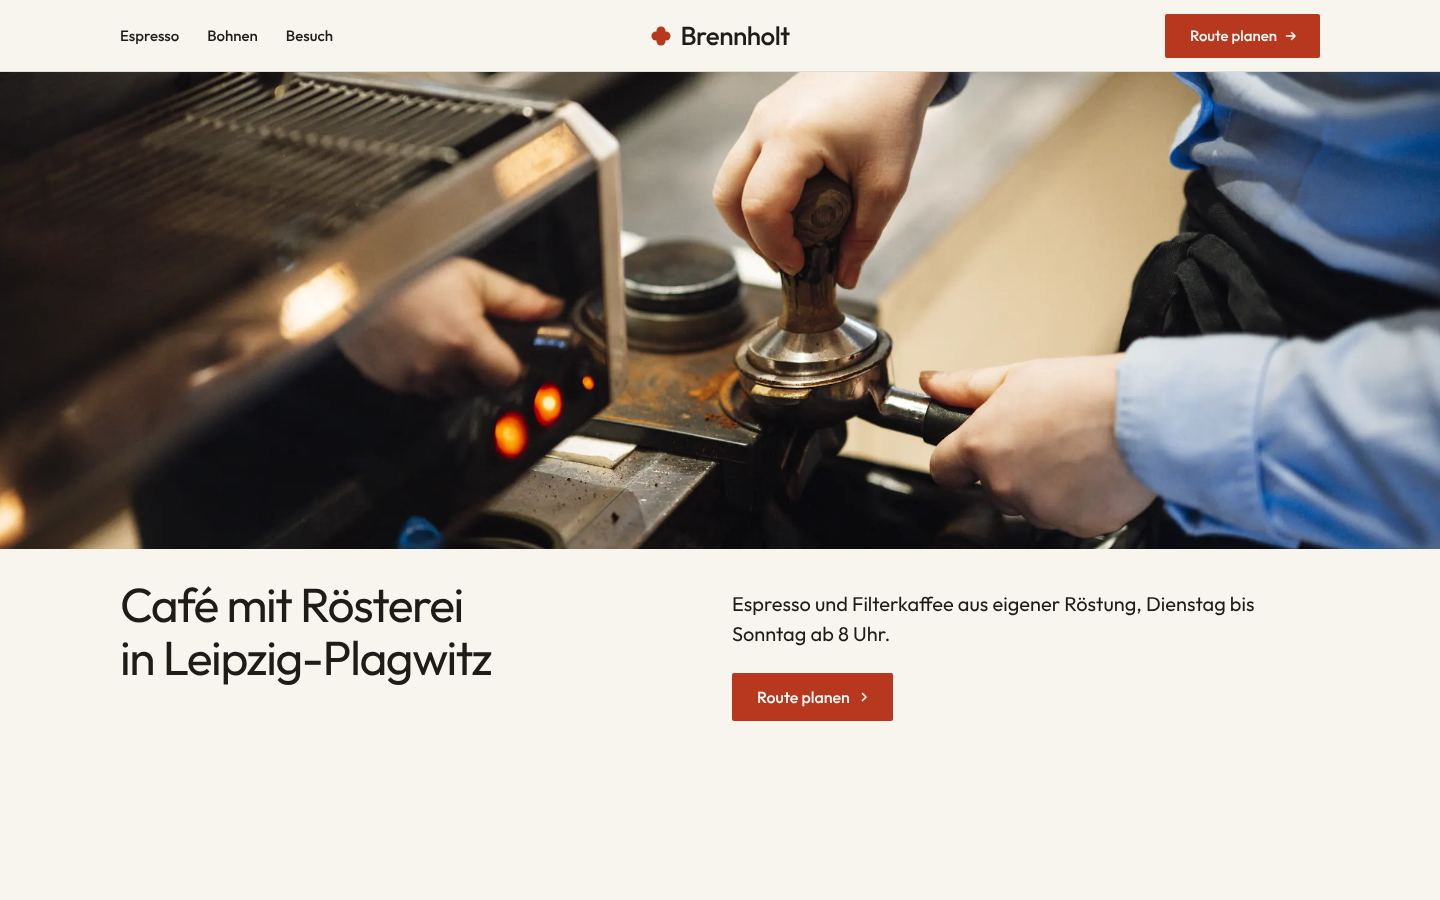
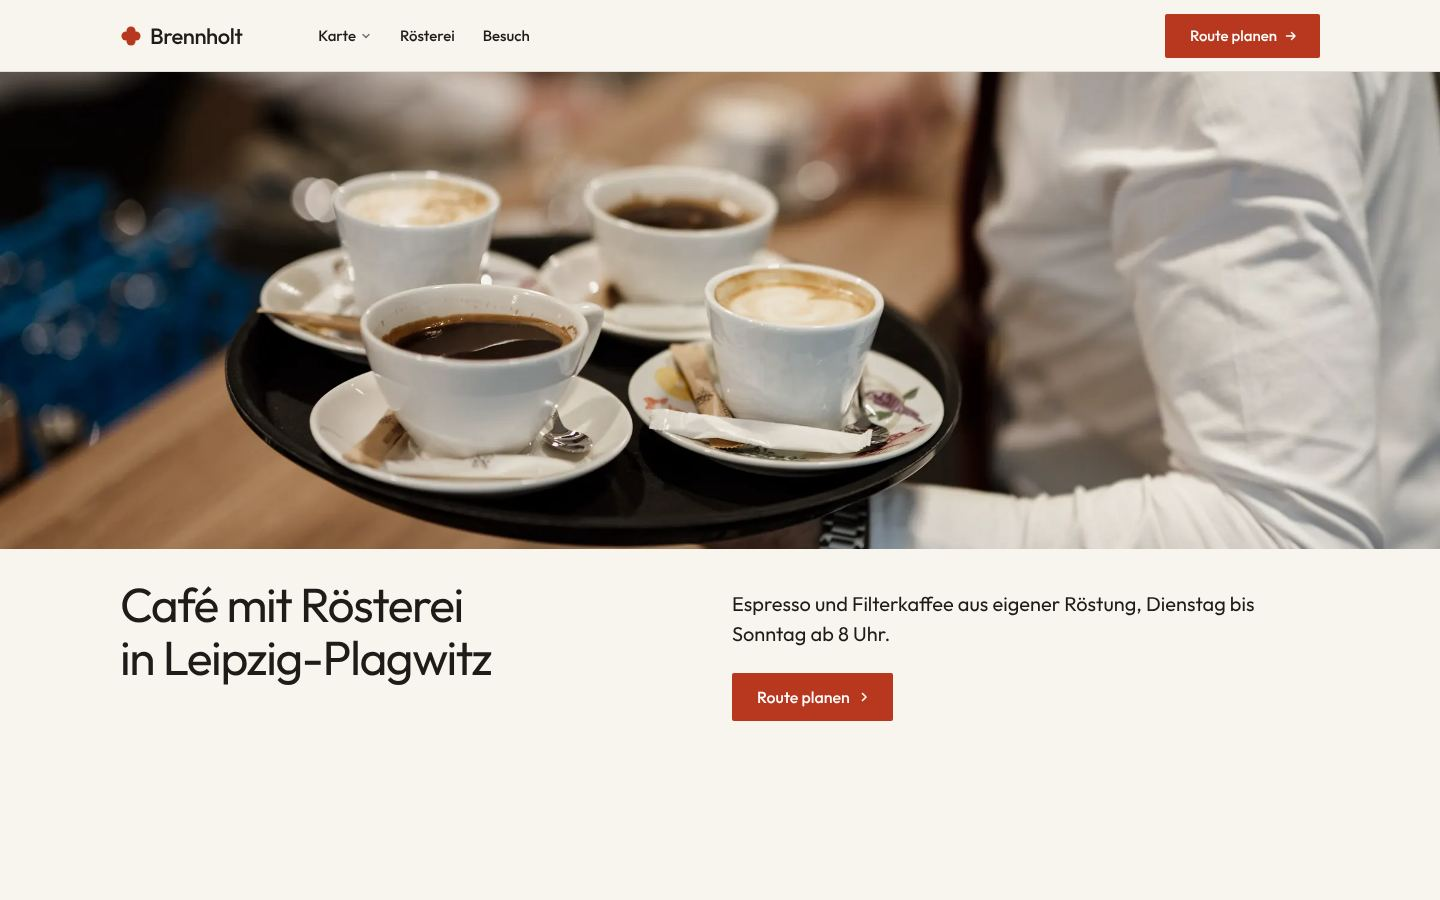
Volle taste-skill Testseite mit Fotostrecke (#3)
* Enable taste-skill plugin for this repository

Claude-Session: https://claude.ai/code/session_01BwxEgDN5wgUsw23ZRKWmBu

* Add taste-skill test landing page for a café

Short place page built and checked with taste-skill 2.5.1 (gate passed).
The kit's assets are not committed; README says how to restore them.

Claude-Session: https://claude.ai/code/session_01BwxEgDN5wgUsw23ZRKWmBu

* Build the full taste-skill test page

Full place page with the photo-chapters moment, now that Wikimedia
Commons is reachable: 10 stand-in photographs, gate passed without
waivers, layout clean at 1440, 1024, 820, 768 and 390.

Claude-Session: https://claude.ai/code/session_01BwxEgDN5wgUsw23ZRKWmBu

---------

diff --git a/taste-test/index.html b/taste-test/index.html
@@ -1,5 +1,5 @@
 <!doctype html>
-<html lang="de" data-type="place" data-page-mode="short" data-radius="soft" data-buttons="arrow" data-motion>
+<html lang="de" data-type="place" data-radius="soft" data-buttons="arrow" data-motion>
 <head>
 <meta charset="utf-8">
 <meta name="viewport" content="width=device-width, initial-scale=1, viewport-fit=cover">
@@ -41,35 +41,67 @@
 <script>document.documentElement.classList.add('mo-js');setTimeout(()=>document.documentElement.classList.add('mo-safe'),2500)</script>
 <link rel="modulepreload" href="assets/moments/moments.js">
 <link rel="modulepreload" href="assets/moments/lib.js">
-<link rel="modulepreload" href="assets/moments/picture-develops/moment.js">
-<!-- page CSS: the short page's tablet rule (sections.md section 4, The short page, two groups) and the phone crop -->
+<link rel="modulepreload" href="assets/moments/photo-chapters/moment.js">
+<!-- page CSS: the address type moment (sections.md section 4) and the brand band's footer text -->
 <style>
+.type-moment a { display: block; color: inherit; text-decoration: none; background: none; }
+.type-moment a:hover { text-decoration: underline; text-decoration-thickness: 2px; text-underline-offset: .12em; }
+.type-moment { font: var(--display-weight) clamp(48px, 7vw, 104px)/1.02 var(--font-display); letter-spacing: -0.03em; margin: 0 0 var(--s-6); }
+.section-head.head-row { max-width: none; display: grid; gap: var(--s-5); align-items: end; }
+.head-row > p { margin: 0; }
+.rows .rows__name small { display: block; font-weight: 400; color: var(--muted); font-size: var(--t-body); line-height: 24px; }
 @media (min-width: 640px) and (max-width: 1023px) {
   #karte { --h: 2; }
-  #karte .grid { grid-template-columns: repeat(2, minmax(0, 1fr)); }
-  #karte .grid > :not(.pl-photo) { grid-column: auto; }
-  #karte .grid > .pl-photo { grid-column: 1 / -1; order: -1; }
-  #karte .pl-photo > img { aspect-ratio: auto; height: calc(var(--pl-room) - 1.25 * var(--t-h2) - var(--head-gap)); margin-bottom: calc(var(--padt) + var(--padb) + var(--bar) - var(--card-gap)); }
-  #karte .visit__cols { grid-template-columns: repeat(3, minmax(0, 1fr)); }
+  #karte .grid--top { grid-template-columns: repeat(2, minmax(0, 1fr)); }
+  #karte .grid--top > * { grid-column: auto; }
+  #karte .grid--top > .pl-photo { order: -1; }
+  #karte .pl-photo > img { aspect-ratio: auto; height: calc(var(--pl-room) - 1.25 * var(--t-h2) - var(--head-gap) - 3.2em); margin-bottom: calc(var(--padt) + var(--padb) + var(--bar) - var(--card-gap)); }
 }
-@media (max-width: 639px) { #karte .pl-photo > img { aspect-ratio: 4 / 3; } }
+@media (max-width: 639px) {
+  #karte .grid--top { grid-template-columns: repeat(2, minmax(0, 1fr)); }
+  #karte .grid--top > * { grid-column: 1 / -1; }
+  #karte .pl-photo > img { aspect-ratio: 4 / 3; }
+  #visit .hours { grid-template-columns: minmax(0, 1fr) auto; }
+  #visit .hours dd { text-align: right; }
+}
 .ground-brand .closing__links h3, .ground-brand .footer__legal, .ground-brand .footer__legal a { color: var(--ink); }
 </style>
 </head>
 <body>
-<!-- type: place (Café mit Rösterei), short page: 4 library frames on disk, the rest unreachable (upload.wikimedia.org blocked)
-     deal: hero place (printed), nav nav-split (no panel: short page), close close-word head row without the name (re-dealt from close-photo),
-     footer footer-visit, rhythm colour-band, buttons arrow, mark petal, offer composition tall-small (not used: short page),
-     place composition pair (not used), type moment address (not used), rooms layout side (not used)
-     palette chalk-tomato (warm off-white like a milk foam and a tomato-red like an espresso machine's enamel), type outfit
-     moments: picture-develops on the section's photograph (#karte) -->
-<header class="nav nav--split">
+<!-- type: place (Café mit Rösterei), full page: 12 library frames (draft path, every one a stand-in)
+     deal: hero place (printed), nav nav-cards, footer footer-visit, rhythm colour-band, buttons arrow, mark petal,
+     offer composition tall-small (as two 4:5 on span-3 beside the groups), place composition pair (not used: the bar section was dropped to keep the page at 7 screens), type moment address,
+     rooms layout side (not used: a cafe has no rooms)
+     palette chalk-tomato (warm off-white like milk foam, tomato red like an espresso machine's enamel), type outfit
+     moments: photo-chapters (#roesterei: raw beans, roasting, cooling) -->
+<header class="nav">
   <div class="wrap nav__bar">
     <a class="skip-link" href="#top">Zum Inhalt</a>
     <a class="nav__logo" href="#top"><span class="mark" data-mark="petal" aria-hidden="true"></span>Brennholt</a>
     <nav class="nav__links" aria-label="Hauptmenü">
-      <div class="nav__item"><a class="nav__link" href="#espresso">Espresso</a></div>
-      <div class="nav__item"><a class="nav__link" href="#bohnen">Bohnen</a></div>
+      <div class="nav__item">
+        <a class="nav__link" href="#karte">Karte <svg class="chev" viewBox="0 0 12 12" aria-hidden="true"><path d="M3 4.5l3 3 3-3" fill="none" stroke="currentColor" stroke-width="1.5" stroke-linecap="round" stroke-linejoin="round"/></svg></a>
+        <div class="nav__menu">
+          <div class="wrap grid">
+            <a class="menu-card span-4" href="#espresso">
+              <div class="panel"><img loading="lazy" width="1200" height="858" class="frame__img" src="assets/img/photo-m28989985-1200.webp" srcset="assets/img/photo-m28989985-600.webp 600w, assets/img/photo-m28989985-1200.webp 1200w" sizes="384px" alt="Espresso läuft in eine kleine weiße Tasse" data-source="library-057" data-subject="bar"></div>
+              <span class="t-card">Espresso-Bar</span>
+              <span class="t-small muted">ab <span data-assumed>2,40 €</span></span>
+            </a>
+            <a class="menu-card span-4" href="#bohnen">
+              <div class="panel"><img loading="lazy" width="1200" height="800" class="frame__img" src="assets/img/photo-m201752739-1200.webp" alt="Milch wird an der Maschine in einem roten Kännchen aufgeschäumt" data-source="library-057" data-subject="roast"></div>
+              <span class="t-card">Filter und Bohnen</span>
+              <span class="t-small muted">ab <span data-assumed>3,20 €</span></span>
+            </a>
+            <a class="menu-card span-4" href="#roesterei">
+              <div class="panel"><img loading="lazy" width="1200" height="800" class="frame__img" src="assets/img/photo-m147143894-1200.webp" srcset="assets/img/photo-m147143894-600.webp 600w, assets/img/photo-m147143894-1200.webp 1200w" sizes="384px" alt="Ein Probenstecher mit hellen Bohnen wird aus der Rösttrommel gezogen" data-source="library-057" data-subject="roast"></div>
+              <span class="t-card">Röstung jeden Dienstag</span>
+              <span class="t-small muted">Bohnen ab Mittwoch an der Bar</span>
+            </a>
+          </div>
+        </div>
+      </div>
+      <div class="nav__item"><a class="nav__link" href="#roesterei">Rösterei</a></div>
       <div class="nav__item"><a class="nav__link" href="#visit">Besuch</a></div>
     </nav>
     <div class="nav__actions">
@@ -83,7 +115,7 @@
 
 <main id="top">
   <section class="hero hero--place" data-enter aria-labelledby="hero-h">
-    <picture class="hero__bg" data-phone-fill><source media="(max-width: 639px)" srcset="assets/img/photo-m187311853-780x975.webp 780w" sizes="100vw"><img src="assets/img/photo-m187311853-2400.webp" srcset="assets/img/photo-m187311853-1200.webp 1200w, assets/img/photo-m187311853-2400.webp 2400w" sizes="100vw" width="2400" height="1600" alt="Hände drücken gemahlenen Kaffee im Siebträger an, daneben die Espressomaschine" fetchpriority="high" decoding="async" data-source="library-057" data-subject="bar" style="object-position: 58% 50%"></picture>
+    <picture class="hero__bg" data-phone-fill><source media="(max-width: 639px)" srcset="assets/img/photo-m189498721-780x975.webp 780w" sizes="100vw"><img src="assets/img/photo-m189498721-2400.webp" srcset="assets/img/photo-m189498721-1200.webp 1200w, assets/img/photo-m189498721-2400.webp 2400w" sizes="100vw" width="2400" height="1600" alt="Ein Tablett mit vier Kaffees wird an einem Holztresen entlanggetragen" fetchpriority="high" decoding="async" data-source="library-057" data-subject="bar" style="object-position: 45% 60%"></picture>
     <div class="wrap"><div class="hero-text">
       <div class="hero__text">
         <h1 id="hero-h">Café mit Rösterei in Leipzig-Plagwitz</h1>
@@ -93,59 +125,95 @@
     </div></div>
   </section>
 
+  <section class="section" id="visit" data-place="visit" aria-labelledby="visit-h">
+    <div class="wrap">
+      <div class="section-head"><h2 id="visit-h">So findest du uns in Plagwitz</h2></div>
+      <p class="type-moment"><a class="type-moment__link" href="https://www.openstreetmap.org/search?query=Karl-Heine-Stra%C3%9Fe%20Plagwitz%20Leipzig">Karl-Heine-Straße, Plagwitz</a></p>
+      <div class="grid grid--top">
+        <div class="visit visit--card span-6">
+          <div class="visit__cols">
+            <div class="visit__col">
+              <p class="t-label">Adresse</p>
+              <address class="visit__address"><a class="link" href="https://www.openstreetmap.org/search?query=Karl-Heine-Stra%C3%9Fe%20Plagwitz%20Leipzig">Karl-Heine-Straße<br>Leipzig-Plagwitz</a></address>
+            </div>
+            <div class="visit__col">
+              <p class="t-label">Öffnungszeiten</p>
+              <dl class="hours" data-tz="Europe/Berlin" data-assumed><dt data-days="tue-fri">Di bis Fr</dt><dd>8 bis 18 Uhr</dd><dt data-days="sat,sun">Sa, So</dt><dd>9 bis 17 Uhr</dd><dt data-days="mon">Montag</dt><dd>geschlossen</dd></dl>
+            </div>
+          </div>
+          <ul class="visit__rows">
+            <li><span>Bohnen</span><span>auf Wunsch frisch gemahlen</span></li>
+          </ul>
+        </div>
+        <figure class="pl-photo span-6" style="--pl-r: 1.333"><img src="assets/img/photo-m61713028-1200.webp" srcset="assets/img/photo-m61713028-600.webp 600w, assets/img/photo-m61713028-1200.webp 1200w" sizes="(max-width: 1023px) 100vw, 50vw" width="1200" height="800" alt="Espresso läuft aus einem offenen Siebträger an einer verchromten Maschine" loading="lazy" decoding="async" data-source="library-057" data-subject="bar" style="object-position: 60% 50%"></figure>
+      </div>
+    </div>
+  </section>
+
   <section class="section" id="karte" style="--hm: 2" aria-labelledby="karte-h">
     <div class="wrap">
-      <div class="section-head">
-        <h2 id="karte-h">Karte und Bohnen</h2>
+      <div class="section-head grid head-row">
+        <h2 class="span-6" id="karte-h">Espresso, Filter und Bohnen</h2>
+        <p class="span-6 start-7">Bohnen aus der eigenen Röstung, jede Woche frisch. <a class="link" href="#roesterei">Röstung ansehen</a></p>
       </div>
       <div class="grid grid--top">
         <div class="span-3" id="espresso">
           <p class="t-label">Espresso-Bar</p>
           <ul class="rows">
-            <li><span class="rows__name">Espresso</span><span class="rows__value" data-assumed>2,40 €</span></li>
-            <li><span class="rows__name">Cortado</span><span class="rows__value" data-assumed>3,10 €</span></li>
-            <li><span class="rows__name">Cappuccino</span><span class="rows__value" data-assumed>3,60 €</span></li>
-            <li><span class="rows__name">Flat White</span><span class="rows__value" data-assumed>3,90 €</span></li>
+            <li><span class="rows__name">Espresso<small>Doppelt, 36 g</small></span><span class="rows__value" data-assumed>2,40 €</span></li>
+            <li><span class="rows__name">Cortado<small>Wenig warme Milch</small></span><span class="rows__value" data-assumed>3,10 €</span></li>
+            <li><span class="rows__name">Cappuccino<small>Auch mit Hafermilch</small></span><span class="rows__value" data-assumed>3,60 €</span></li>
+            <li><span class="rows__name">Flat White<small>160 ml</small></span><span class="rows__value" data-assumed>3,90 €</span></li>
           </ul>
         </div>
         <div class="span-3" id="bohnen">
           <p class="t-label">Filter und Bohnen</p>
           <ul class="rows">
-            <li><span class="rows__name">Filterkaffee</span><span class="rows__value" data-assumed>3,20 €</span></li>
-            <li><span class="rows__name">Filter, große Tasse</span><span class="rows__value" data-assumed>4,10 €</span></li>
-            <li><span class="rows__name">Bohnen, 250 g</span><span class="rows__value" data-assumed>9,80 €</span></li>
-            <li><span class="rows__name">Bohnen, 1 kg</span><span class="rows__value" data-assumed>34,50 €</span></li>
+            <li><span class="rows__name">Filterkaffee<small>Röstung der Woche</small></span><span class="rows__value" data-assumed>3,20 €</span></li>
+            <li><span class="rows__name">Filter, große Tasse<small>350 ml</small></span><span class="rows__value" data-assumed>4,10 €</span></li>
+            <li><span class="rows__name">Bohnen, 250 g<small>Auf Wunsch gemahlen</small></span><span class="rows__value" data-assumed>9,80 €</span></li>
+            <li><span class="rows__name">Bohnen, 1 kg<small>Für Büros</small></span><span class="rows__value" data-assumed>34,50 €</span></li>
           </ul>
         </div>
-        <figure class="pl-photo span-6" style="--pl-r: 1.5" data-moment="picture-develops"><img src="assets/img/photo-m28989985-1200.webp" srcset="assets/img/photo-m28989985-1200.webp 1200w" sizes="(max-width: 639px) 100vw, (max-width: 1023px) 100vw, 50vw" width="1200" height="857" alt="Espresso läuft aus einem offenen Siebträger in eine kleine weiße Tasse, dahinter Manometer und Maschine" loading="lazy" decoding="async" data-source="library-057" data-subject="bar" style="object-position: 62% 62%"></figure>
-      </div>
-      <div class="visit visit--cols" id="visit" data-place="visit" style="margin-top: var(--s-7)">
-        <div class="visit__cols">
-          <div class="visit__col">
-            <p class="t-label">Adresse</p>
-            <address class="visit__address"><a class="link" href="https://www.openstreetmap.org/search?query=Karl-Heine-Stra%C3%9Fe%20Plagwitz%20Leipzig">Karl-Heine-Straße<br>Leipzig-Plagwitz</a></address>
-          </div>
-          <div class="visit__col">
-            <p class="t-label">Öffnungszeiten</p>
-            <dl class="hours" data-tz="Europe/Berlin" data-assumed><dt data-days="tue-fri">Dienstag bis Freitag</dt><dd>8 bis 18 Uhr</dd><dt data-days="sat,sun">Samstag, Sonntag</dt><dd>9 bis 17 Uhr</dd><dt data-days="mon">Montag</dt><dd>geschlossen</dd></dl>
-          </div>
-          <div class="visit__col">
-            <p class="t-label">Bohnen zum Mitnehmen</p>
-            <p>Wir mahlen auf Wunsch für Siebträger, Filter oder Kanne. Geröstet wird jeden Dienstag.</p>
-          </div>
-        </div>
+        <figure class="pl-photo span-3" style="--pl-r: .667"><img src="assets/img/photo-m61714648-1200.webp" srcset="assets/img/photo-m61714648-600.webp 600w, assets/img/photo-m61714648-1200.webp 1200w" sizes="(max-width: 639px) 100vw, (max-width: 1023px) 50vw, 282px" width="1200" height="1800" alt="Espresso wird aus einem kleinen Kännchen in eine weiße Tasse auf einem Holztresen gegossen" loading="lazy" decoding="async" data-source="library-057" data-subject="bar" style="object-position: 60% 70%"></figure>
+        <figure class="pl-photo span-3" style="--pl-r: .667"><img src="assets/img/photo-m61713362-1200.webp" srcset="assets/img/photo-m61713362-564x846.webp 564w, assets/img/photo-m61713362-1200.webp 1200w" sizes="(max-width: 639px) 100vw, (max-width: 1023px) 50vw, 282px" width="1200" height="800" alt="Milch wird in einen Latte in einer weißen Tasse gegossen" loading="lazy" decoding="async" data-source="library-057" data-subject="bar" style="object-position: 50% 55%"></figure>
       </div>
     </div>
   </section>
+
+  <section class="section" id="roesterei" data-moment="photo-chapters" aria-labelledby="roesterei-h">
+    <div class="wrap mo-ph">
+      <div class="mo-ph__head"><h2 id="roesterei-h">Von der Rohbohne zur Röstung</h2><p>Wir rösten jeden Dienstag im Hinterhaus. Ab Mittwoch gibt es die Bohnen an der Bar.</p></div>
+      <ol class="mo-ph__list">
+        <li class="mo-ph__ch">
+          <figure class="mo-ph__pic"><img loading="lazy" src="assets/img/photo-m62054123-1200.webp" srcset="assets/img/photo-m62054123-726x1128.webp 726w, assets/img/photo-m62054123-1200.webp 1200w" sizes="(max-width: 639px) 100vw, 1200px" alt="Eine Hand sortiert grüne Kaffeebohnen in einem flachen Korb" width="1200" height="800" data-source="library-057" data-subject="beans"></figure>
+          <h3>Rohkaffee von Hand verlesen</h3>
+          <p>Vor dem Rösten sortieren wir Steine und kaputte Bohnen aus, damit keine Tasse nach einer Fehlbohne schmeckt.</p>
+        </li>
+        <li class="mo-ph__ch">
+          <figure class="mo-ph__pic"><img loading="lazy" src="assets/img/photo-m147143943-1200.webp" srcset="assets/img/photo-m147143943-726x1128.webp 726w, assets/img/photo-m147143943-1200.webp 1200w" sizes="(max-width: 639px) 100vw, 1200px" alt="Geröstete Bohnen fallen in das Kühlsieb, der Rührarm dreht sich" width="1200" height="800" data-source="library-057" data-subject="roast"></figure>
+          <h3>In kleinen Chargen rösten</h3>
+          <p>Jede Charge kommt nach dem Rösten ins Kühlsieb, damit die Bohnen nicht nachrösten.</p>
+        </li>
+        <li class="mo-ph__ch">
+          <figure class="mo-ph__pic"><img loading="lazy" src="assets/img/photo-m28989985-1200.webp" srcset="assets/img/photo-m28989985-726x1128.webp 726w, assets/img/photo-m28989985-1200.webp 1200w" sizes="(max-width: 639px) 100vw, 1200px" alt="Eine Hand hält eine kleine weiße Tasse unter einen offenen Siebträger, Espresso läuft" width="1200" height="857" data-source="library-057" data-subject="bar"></figure>
+          <h3>Ab Mittwoch in der Tasse</h3>
+          <p>Nach einem Tag Ruhe brühen wir die neue Röstung an der Bar und füllen sie in Tüten zu 250 g und 1 kg.</p>
+        </li>
+      </ol>
+    </div>
+  </section>
+
 </main>
 
 <footer class="footer closing footer--visit ground-brand" id="contact" aria-labelledby="close-h">
   <div class="wrap">
-    <div class="closing__cta close--word">
+    <div class="closing__cta close--photo">
       <div class="section-head--split">
         <div><h2 id="close-h">Espresso und Bohnen in Plagwitz</h2><p class="t-lead">Dienstag bis Sonntag geöffnet, montags geschlossen.</p></div>
         <a class="btn btn--primary" href="https://www.openstreetmap.org/search?query=Karl-Heine-Stra%C3%9Fe%20Plagwitz%20Leipzig">Route planen<svg class="m-arrow" viewBox="0 0 12 12" aria-hidden="true"><path class="m-arrow__stem" d="M1 6h8"/><path class="m-arrow__head" d="M4.5 2.5 8 6l-3.5 3.5"/></svg></a>
       </div>
+      <div class="close__media"><img width="1200" height="800" loading="lazy" src="assets/img/photo-m147143898-1200.webp" alt="Frisch geröstete Bohnen im Probenstecher, dahinter die Rösttrommel" data-source="library-057" data-subject="roast" style="--pos: 45% 50%"></div>
     </div>
     <div class="closing__links">
       <div class="grid">
@@ -154,11 +222,12 @@
         </div>
         <div class="span-4 start-9 stack-4">
           <h3>Öffnungszeiten</h3>
-          <dl class="hours" data-tz="Europe/Berlin" data-assumed><dt data-days="tue-fri">Dienstag bis Freitag</dt><dd>8 bis 18 Uhr</dd><dt data-days="sat,sun">Samstag, Sonntag</dt><dd>9 bis 17 Uhr</dd><dt data-days="mon">Montag</dt><dd>geschlossen</dd></dl>
+          <dl class="hours" data-tz="Europe/Berlin" data-assumed><dt data-days="tue-fri">Di bis Fr</dt><dd>8 bis 18 Uhr</dd><dt data-days="sat,sun">Sa, So</dt><dd>9 bis 17 Uhr</dd><dt data-days="mon">Montag</dt><dd>geschlossen</dd></dl>
         </div>
       </div>
       <div class="footer__legal">
-        <span>&copy; 2026 Brennholt &nbsp; <a href="privacy.html">Datenschutz</a></span>
+        <span>&copy; 2026 Brennholt</span>
+        <a href="privacy.html">Datenschutz</a>
         <a class="credits" href="credits.html">Fotos via Wikimedia Commons</a>
       </div>
     </div>

diff --git a/taste-test/credits.html b/taste-test/credits.html
@@ -8,8 +8,16 @@
   <section class="credits-list" id="credits" aria-labelledby="credits-h">
     <h1 id="credits-h">Photograph credits</h1>
     <ul>
-      <li><a href="https://commons.wikimedia.org/wiki/File:Barista_prepares_espresso_at_coffee_shop.jpg">Shixart1985</a>, <a href="https://creativecommons.org/licenses/by/2.0">CC BY 2.0</a></li>
-      <li><a href="https://commons.wikimedia.org/wiki/File:Double_ristretto_naked_portafilter.jpg">Takeaway</a>, <a href="https://creativecommons.org/licenses/by-sa/3.0/">CC BY-SA 3.0</a></li>
+      <li><a href="https://commons.wikimedia.org/wiki/File:Double_ristretto_naked_portafilter.jpg">Takeaway</a>, <a href="https://creativecommons.org/licenses/by-sa/3.0/">CC BY-SA 3.0</a>, via Wikimedia Commons</li>
+      <li><a href="https://commons.wikimedia.org/wiki/File:Closer_look_at_the_coffee_beans_from_the_coffee_roasting_machine_looking_at_their_progress.jpg">Jameswasswa</a>, <a href="https://creativecommons.org/licenses/by-sa/4.0/">CC BY-SA 4.0</a>, via Wikimedia Commons</li>
+      <li><a href="https://commons.wikimedia.org/wiki/File:Closer_look_at_the_progress_of_the_coffee_beans_in_the_roasting_machine_as_they_change_color.jpg">Jameswasswa</a>, <a href="https://creativecommons.org/licenses/by-sa/4.0/">CC BY-SA 4.0</a>, via Wikimedia Commons</li>
+      <li><a href="https://commons.wikimedia.org/wiki/File:Latte_in_a_coffee_machine_(Unsplash).jpg">Blake Richard Verdoorn</a>, via Wikimedia Commons</li>
+      <li><a href="https://commons.wikimedia.org/wiki/File:Serving_coffee_in_a_cafe_during_the_morning_hours_with_a_waiter_carrying_a_tray_of_drinks_for_customers.jpg">Shixart1985</a>, via Wikimedia Commons</li>
+      <li><a href="https://commons.wikimedia.org/wiki/File:Barista_pours_steamed_milk_into_a_red_pitcher_during_coffee_preparation_in_a_cafe.jpg">Shixart1985</a>, via Wikimedia Commons</li>
+      <li><a href="https://commons.wikimedia.org/wiki/File:Nathan_Dumlao_2017-05-27_(Unsplash).jpg">Nathan Dumlao</a>, via Wikimedia Commons</li>
+      <li><a href="https://commons.wikimedia.org/wiki/File:Making_a_latte_(Unsplash).jpg">Taylor Franz</a>, via Wikimedia Commons</li>
+      <li><a href="https://commons.wikimedia.org/wiki/File:Joshua_Newton_2016-10-01_(Unsplash_XpyD7z6AP4g).jpg">Joshua Newton</a>, via Wikimedia Commons</li>
+      <li><a href="https://commons.wikimedia.org/wiki/File:Final_part_of_the_roasted_beans_out_for_cooling.jpg">Jameswasswa</a>, via Wikimedia Commons</li>
     </ul>
   </section>
 </main></body></html>
